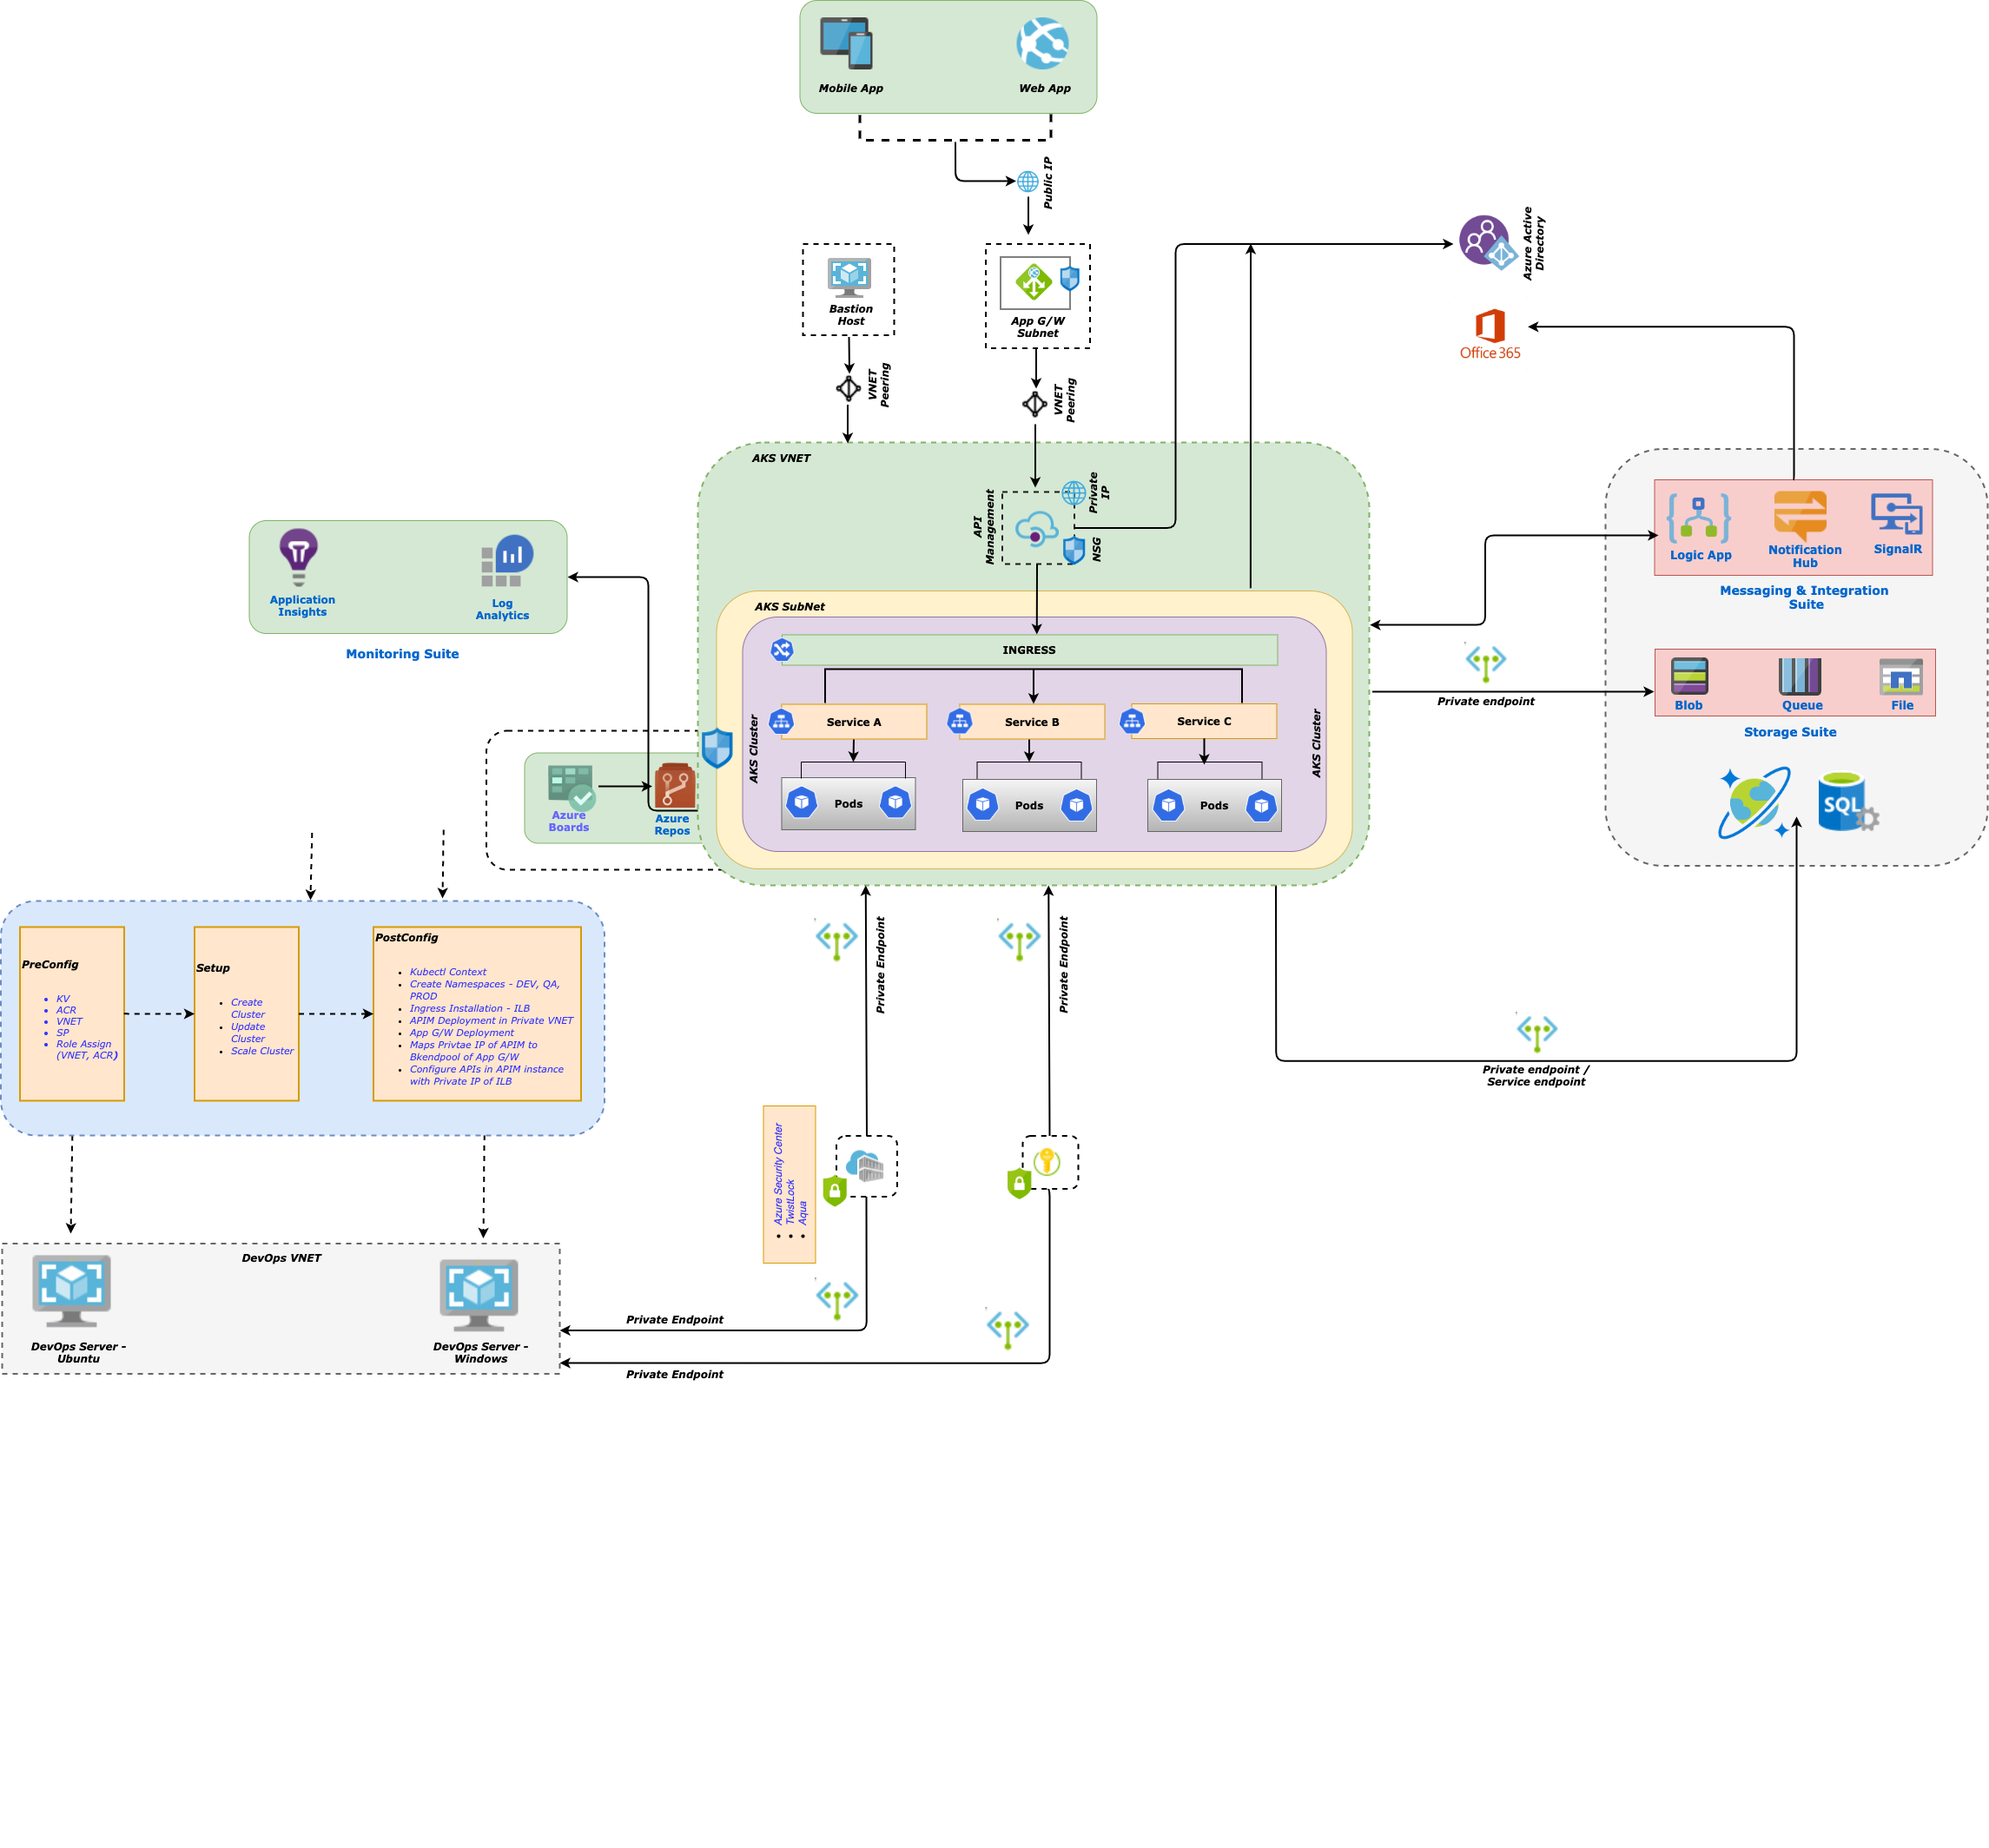
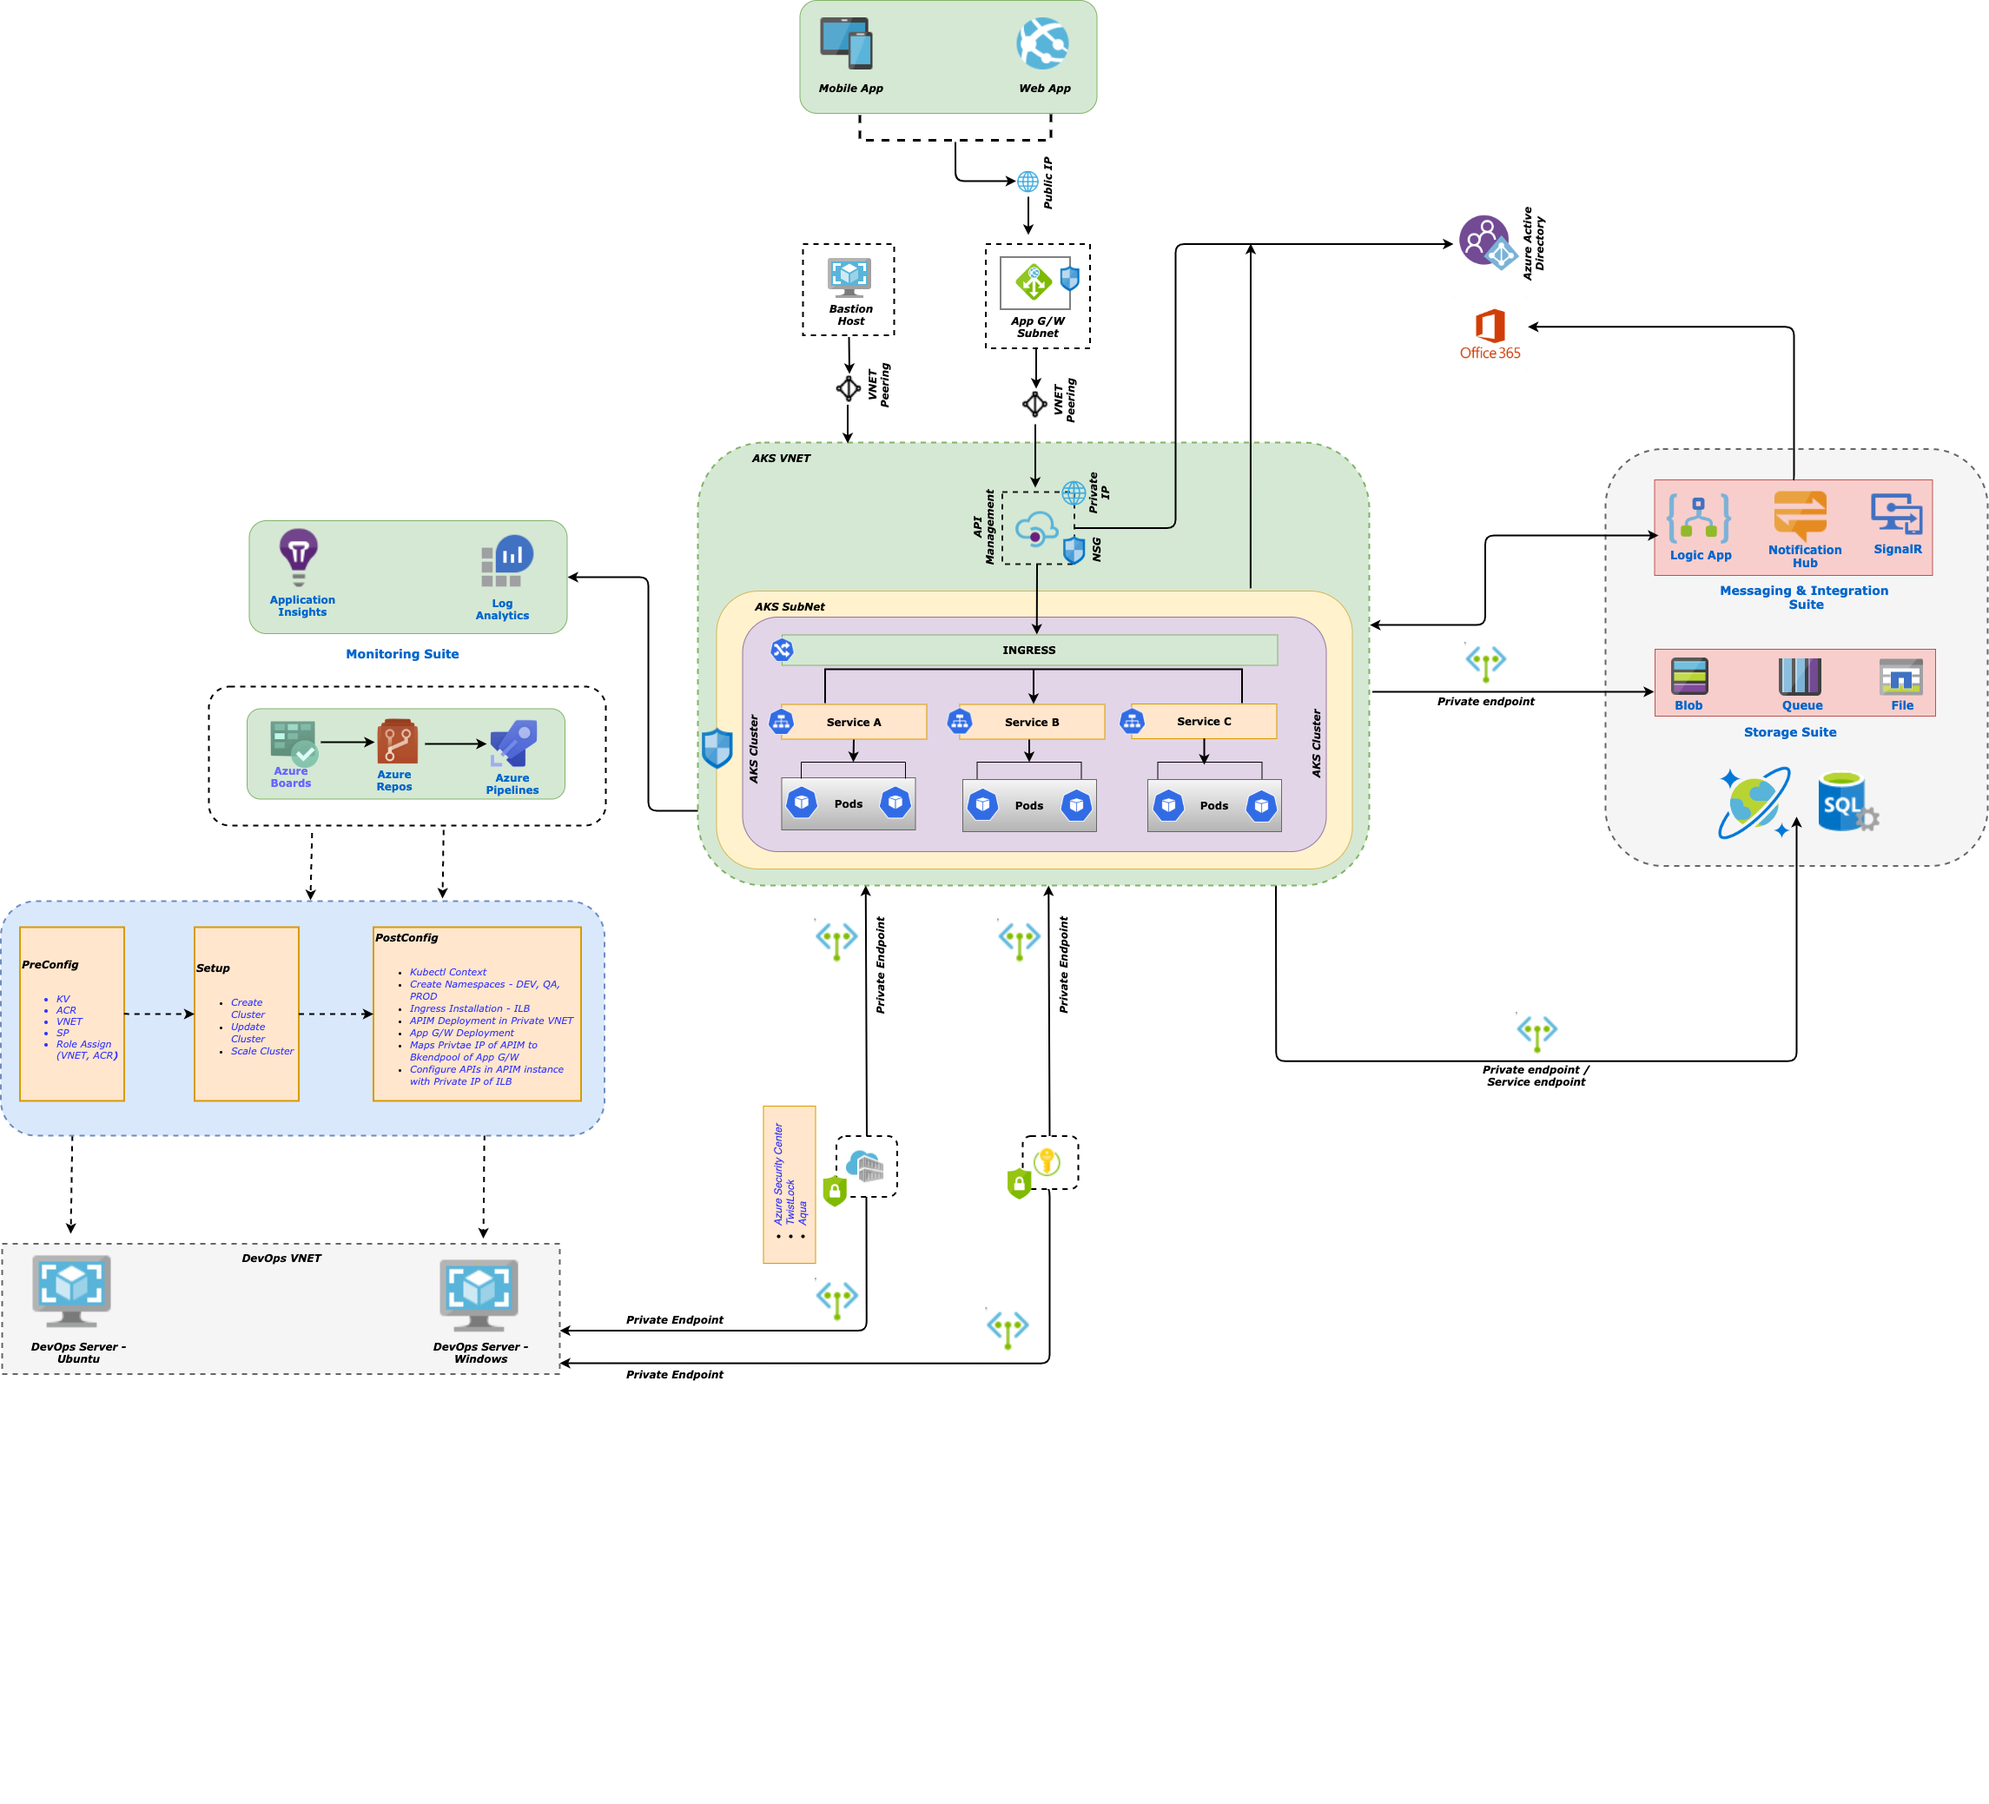
NA

diff --git a/Readme.md b/Readme.md
@@ -1,4 +1,4 @@
-
+Deploy onto AKS
 
 ## AKS Reference Architecture
 
